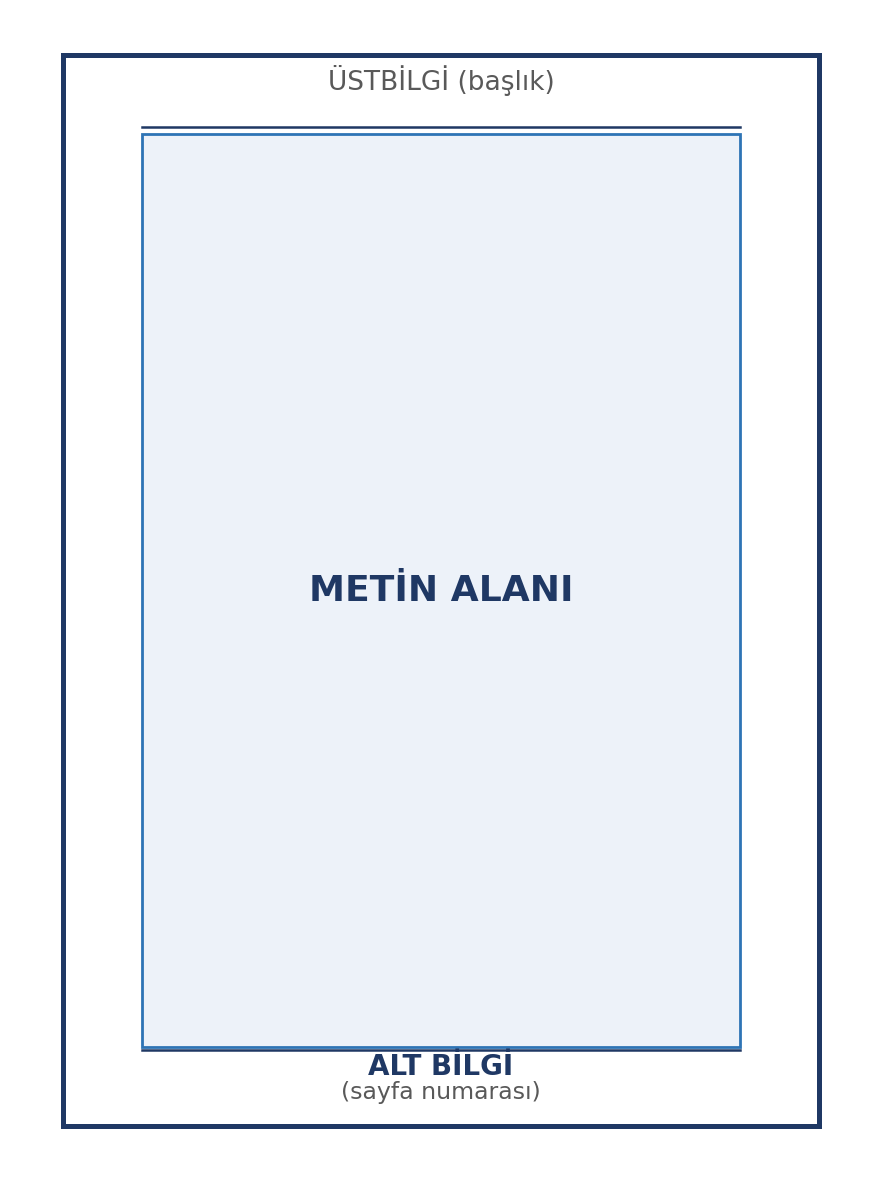
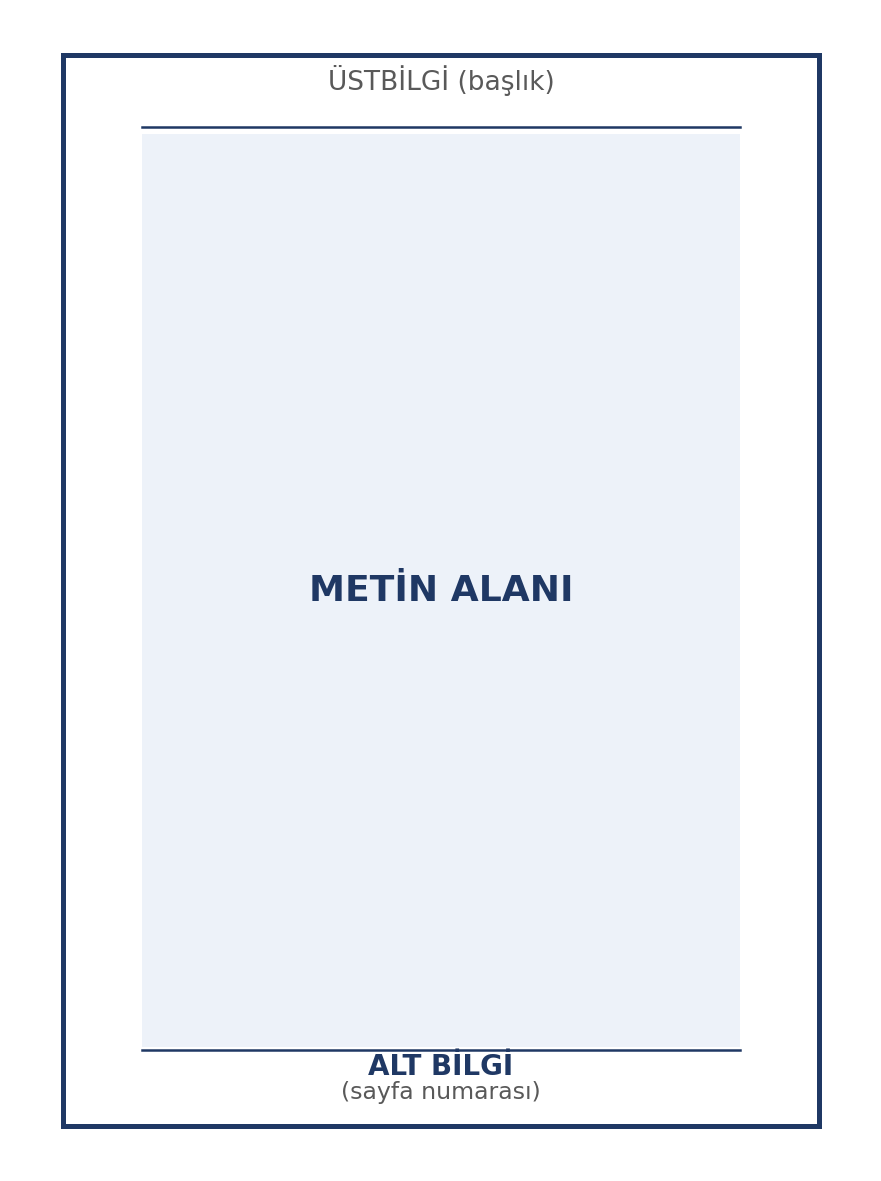
7. hafta: metin alanı kutusunun çerçevesi kaldırıldı
Sayfa düzeni şemasında açık mavi "METİN ALANI" alanı artık çerçevesiz;
sayfa sınırı ve üst/alt bilgi çizgileri duruyor.

Changed region(s): [[0.8275, 0.1219, 0.8581, 0.884], [0.1532, 0.1219, 0.1839, 0.884]]

diff --git a/diyagram_betikleri/diagram-sayfa-duzeni.py b/diyagram_betikleri/diagram-sayfa-duzeni.py
@@ -77,7 +77,7 @@ ax.add_patch(Rectangle((SAYFA[0], SAYFA[1]), SAYFA[2], SAYFA[3],
 
 # metin alanı
 ax.add_patch(Rectangle((METIN[0], METIN[1]), METIN[2], METIN[3],
-                       linewidth=1.0, edgecolor=MAVI, facecolor=ACIK, zorder=3))
+                       linewidth=0, edgecolor="none", facecolor=ACIK, zorder=3))
 ax.text(METIN[0] + METIN[2] / 2, METIN[1] + METIN[3] / 2, "METİN ALANI",
         ha="center", va="center", fontsize=13, color=LAC, fontweight="bold", zorder=4)
 
